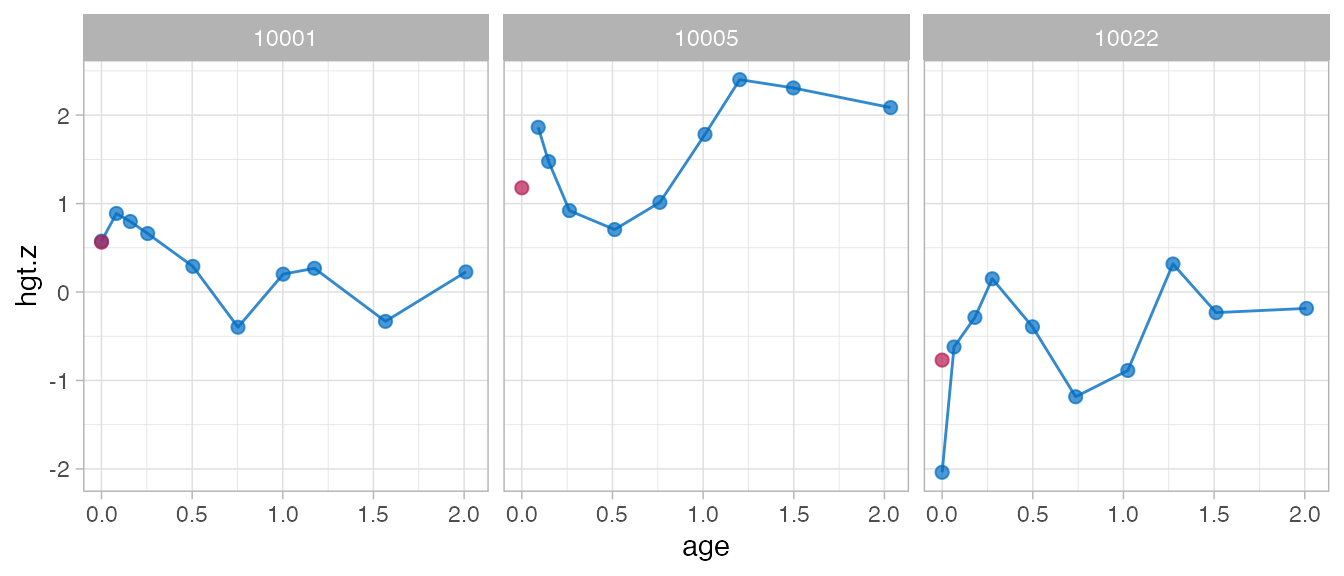
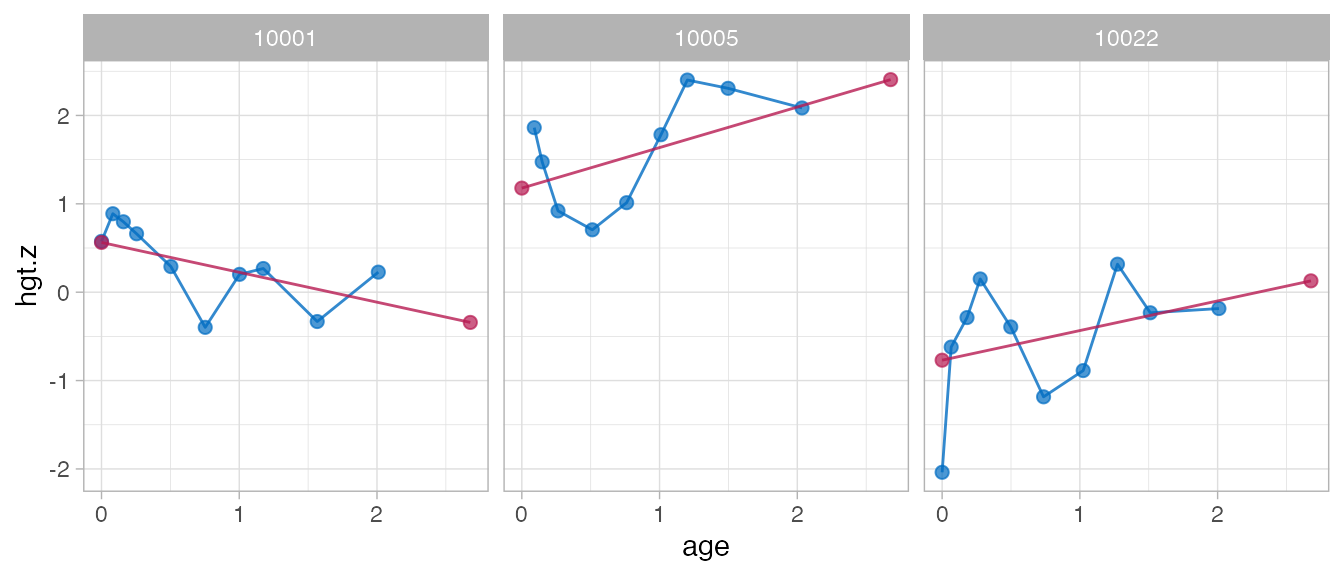
Include what = "all" if we want to plot right boundary

diff --git a/docs/articles/oldfriends.html b/docs/articles/oldfriends.html
@@ -201,13 +201,7 @@
 <p>Plot trajectories, new version</p>
 <div class="sourceCode" id="cb8"><pre class="downlit">
 <span class="va">ids</span> <span class="op">&lt;-</span> <span class="fu"><a href="https://rdrr.io/r/base/c.html">c</a></span><span class="op">(</span><span class="fl">10001</span>, <span class="fl">10005</span>, <span class="fl">10022</span><span class="op">)</span>
-<span class="fu"><a href="https://rdrr.io/r/graphics/plot.default.html">plot</a></span><span class="op">(</span><span class="va">fit1</span>, <span class="va">data</span>, group <span class="op">=</span> <span class="va">ids</span><span class="op">)</span>
-<span class="co">#&gt; geom_path: Each group consists of only one observation. Do you need to adjust</span>
-<span class="co">#&gt; the group aesthetic?</span>
-<span class="co">#&gt; geom_path: Each group consists of only one observation. Do you need to adjust</span>
-<span class="co">#&gt; the group aesthetic?</span>
-<span class="co">#&gt; geom_path: Each group consists of only one observation. Do you need to adjust</span>
-<span class="co">#&gt; the group aesthetic?</span></pre></div>
+<span class="fu"><a href="https://rdrr.io/r/graphics/plot.default.html">plot</a></span><span class="op">(</span><span class="va">fit1</span>, <span class="va">data</span>, group <span class="op">=</span> <span class="va">ids</span>, what <span class="op">=</span> <span class="st">"all"</span><span class="op">)</span></pre></div>
 <p><img src="oldfriends_files/figure-html/plot-new-1.png" width="672"></p>
 </div>
 <div id="example-4-explained-variance" class="section level2">
